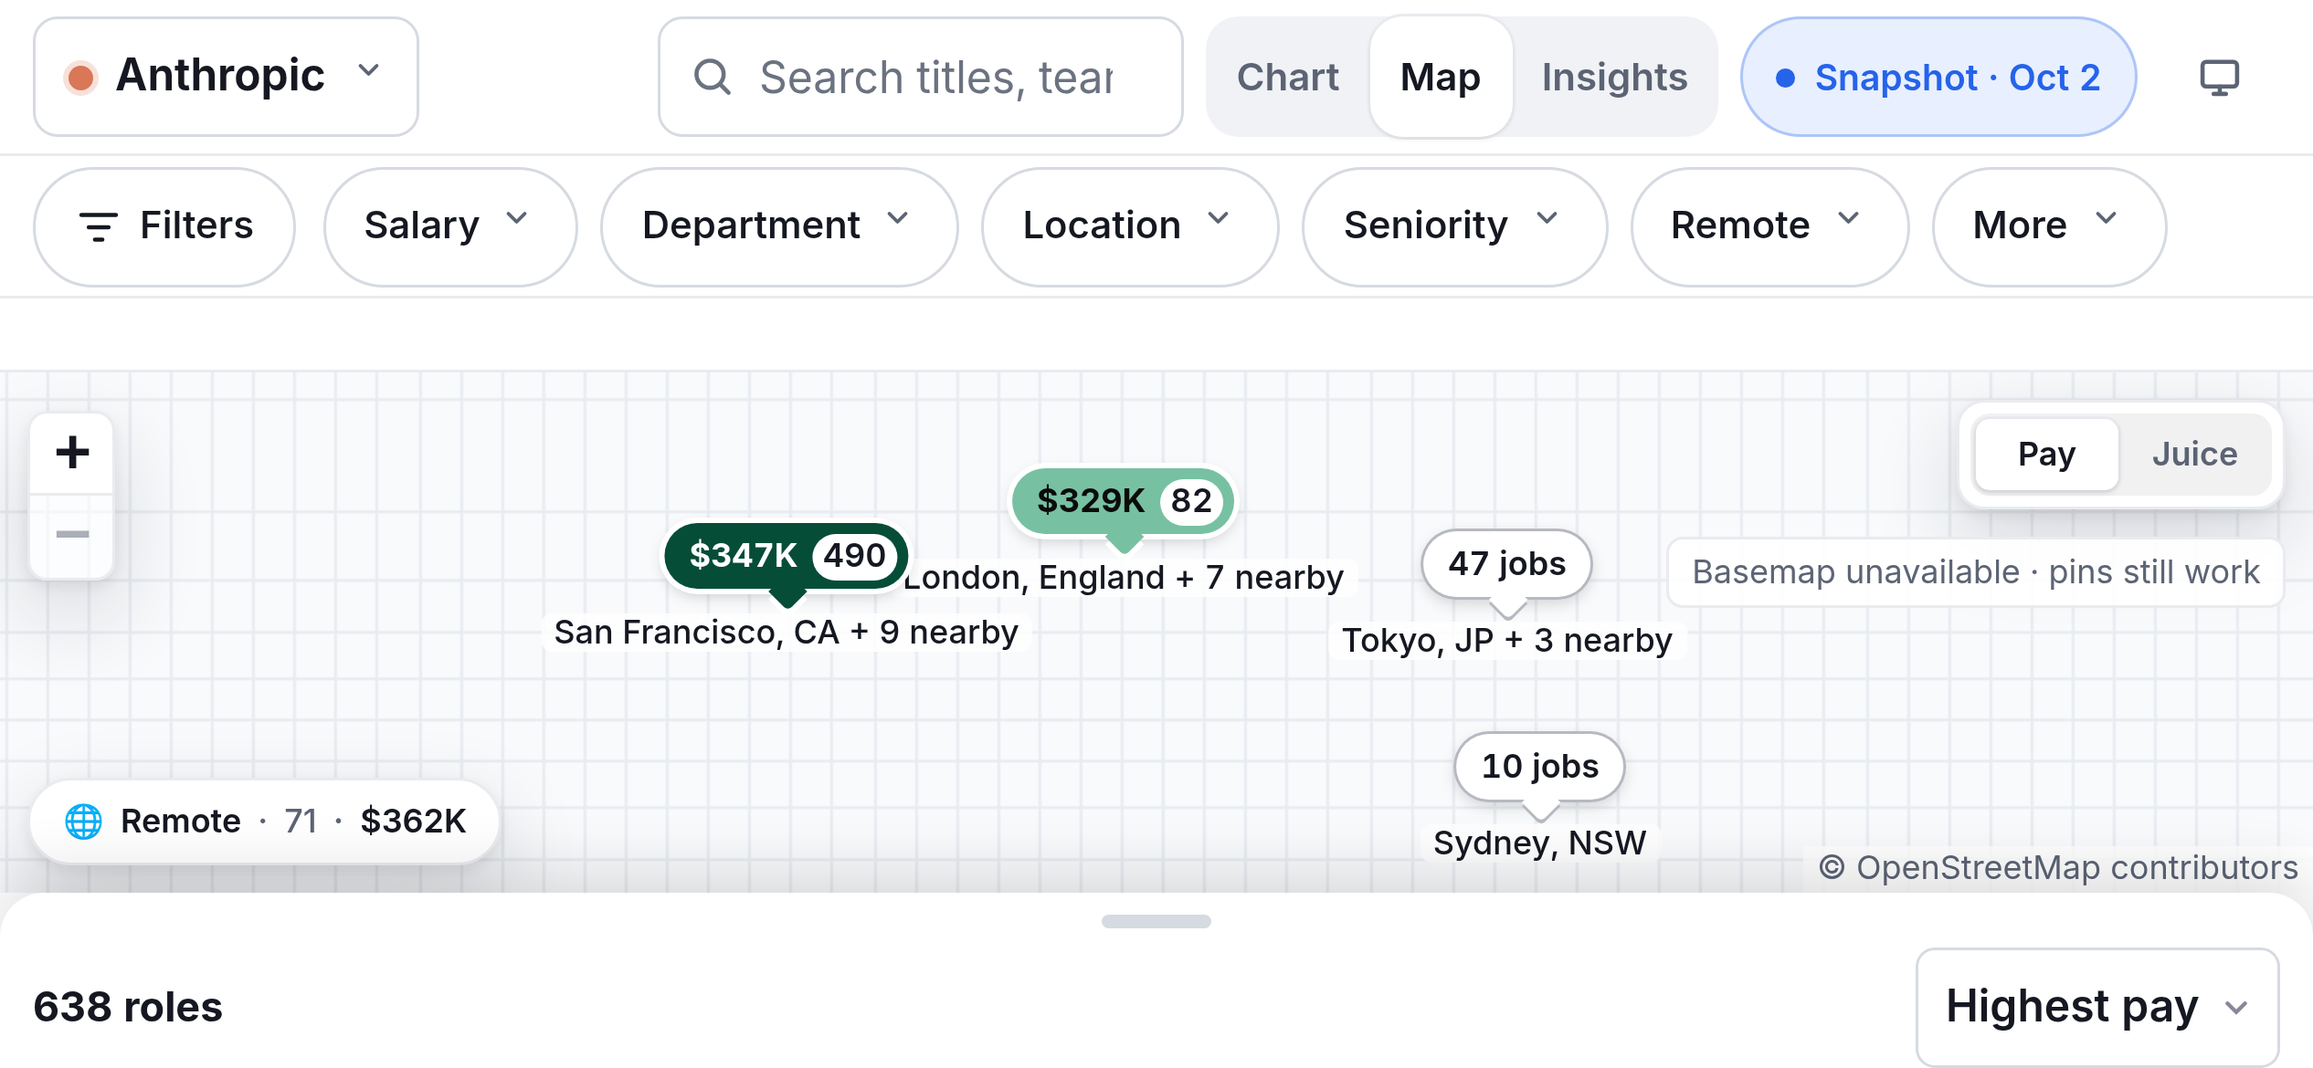
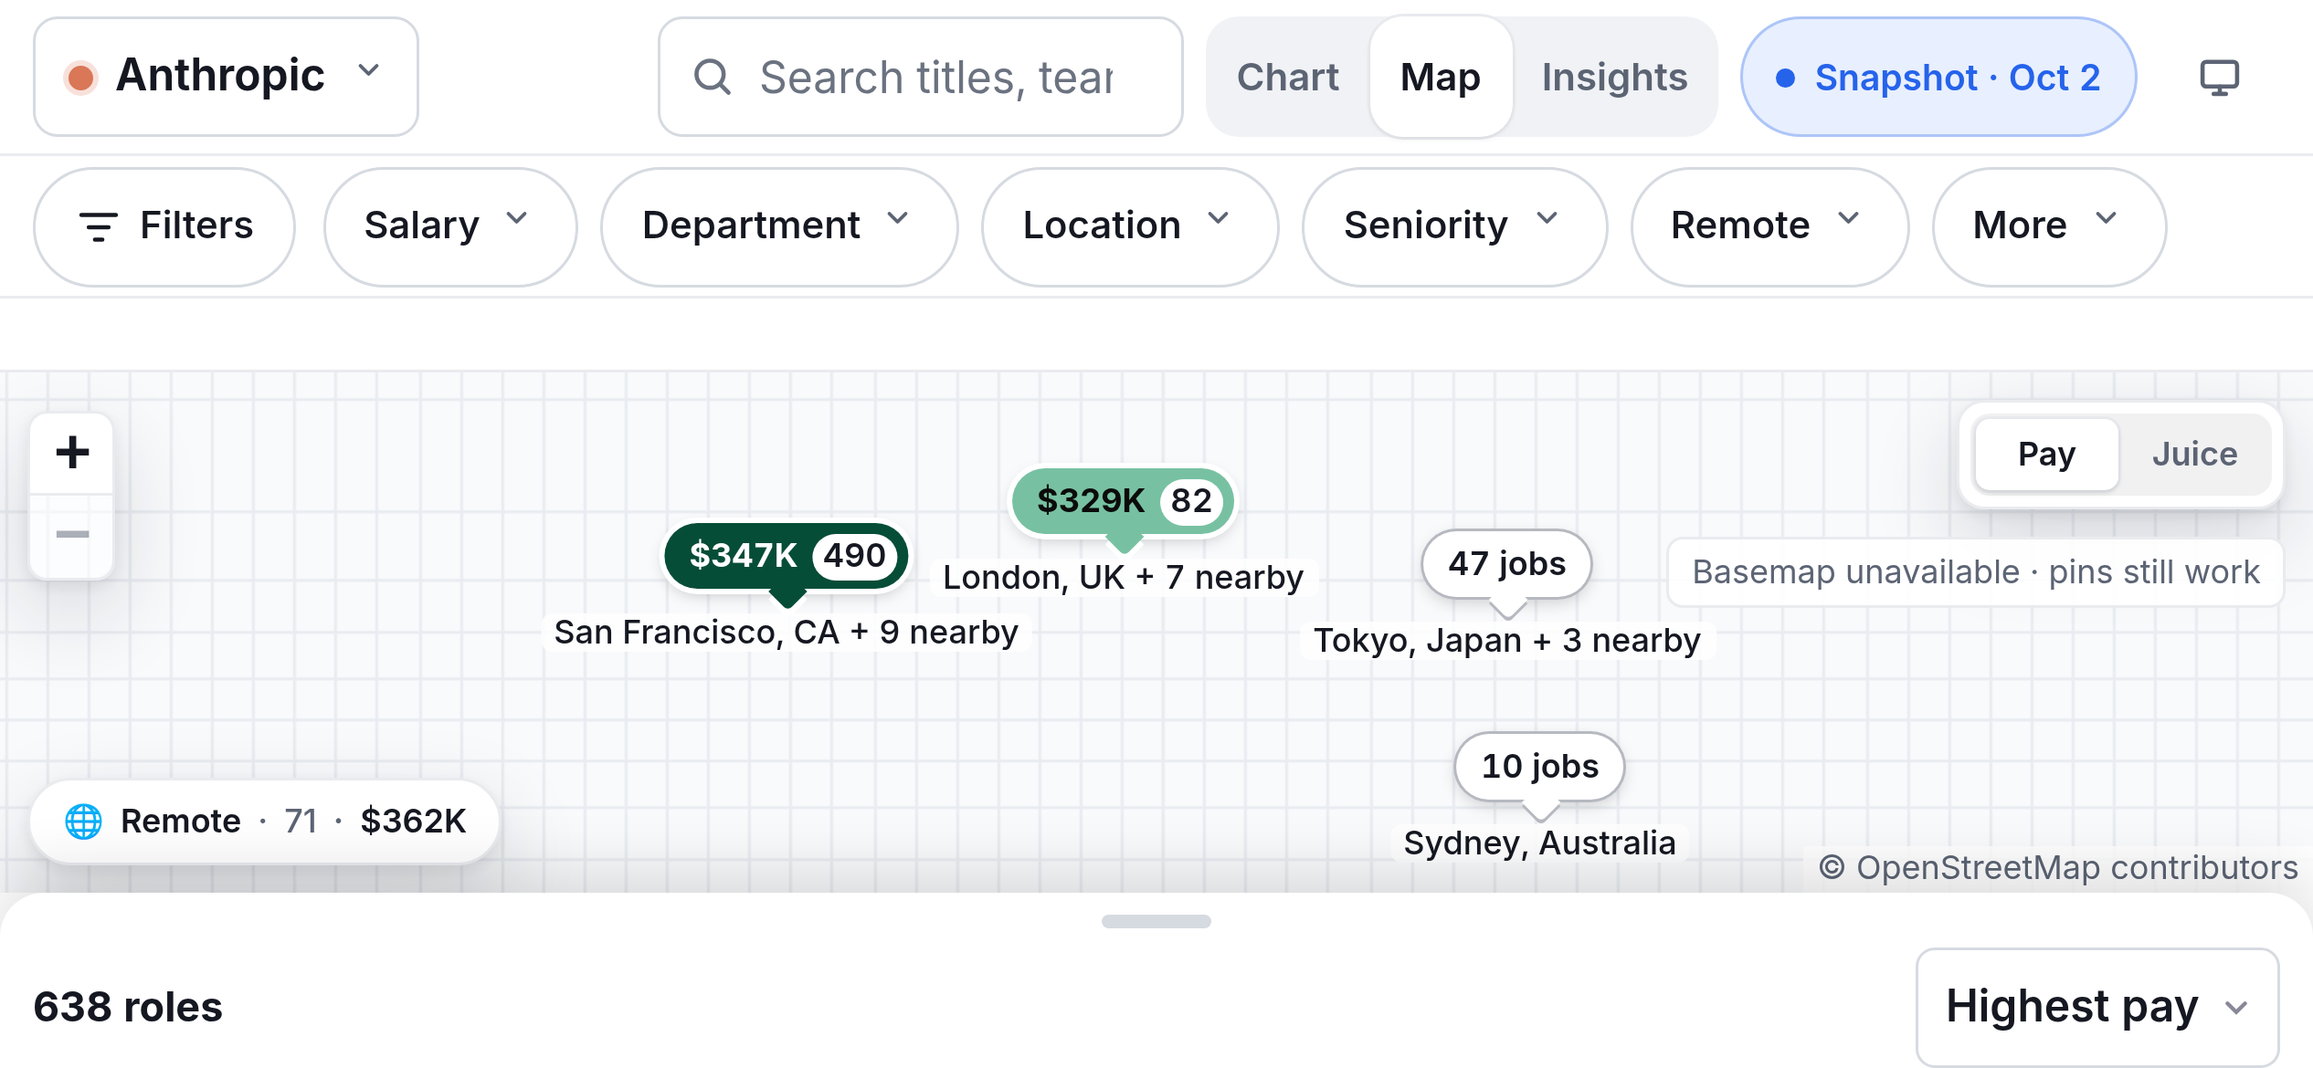
Write out role abbreviations in job titles (RE/RS, SWE, TPM, GTM…) and country codes in location labels
Claude-Session: https://claude.ai/code/session_014jaqot5Ddmi7Co6CofBiyc

Changed region(s): [[0.3744, 0.5231, 0.5928, 0.5538], [0.5616, 0.5846, 0.7488, 0.6154], [0.5928, 0.7692, 0.7176, 0.8]]

diff --git a/public/app.js b/public/app.js
@@ -10,7 +10,7 @@ import * as api from './api.js';
 import { createCompstimateWidget, compstimateForJob, accuracyLine, isLowAccuracy, displayConfidence, basisLine, MIN_COMPARABLES } from './features/compstimate.js';
 import { compsForJob, createCompsCard } from './features/comps.js';
 import { createCompsChart } from './viz/comps.js';
-import { roleFamily, FAMILY_LABELS } from './features/roles.js';
+import { roleFamily, FAMILY_LABELS, readableTitle } from './features/roles.js';
 // ./features/insights.js is imported on first use (Insights mode), see renderInsights.
 // api.js: getCompanies, getJobs, getJobDetail (namespace import: tolerate a missing optional export)
 
@@ -386,13 +386,19 @@ function prepare(jobs, { source = null } = {}) {
     // falls back to updatedAt so the age slot and "Listed" filter still work.
     const tagm = typeof j.title === 'string' ? j.title.match(/^\s*\[([^\]]{1,16})\]\s*/) : null;
     if (tagm && !j._rawTitle) { j._rawTitle = j.title; j._titleTag = tagm[1]; j.title = j.title.slice(tagm[0].length) || j.title; }
+    // Role abbreviations written out ("RE / RS" -> "Research Engineer / Research Scientist"); the
+    // posted title stays searchable and is shown in the drawer when it differs.
+    if (j._postedTitle == null && typeof j.title === 'string') {
+      j._postedTitle = j._rawTitle || j.title;
+      j.title = readableTitle(j.title) || j.title;
+    }
     j._age = 'ageDays' in j ? (Number.isFinite(j.ageDays) ? j.ageDays : null)
       : j._ts ? Math.max(0, Math.floor((Date.now() - j._ts) / 864e5)) : null;
     j._family = j._family ?? roleFamily(j.title, j); // same ctx comps.js uses, so rf filters match its rows
     j.juice = j.juice && j.juice.best ? j.juice : null;
     j._grade = j.juice ? (j.juice.best.grade === 'Rind' ? 'Dry' : j.juice.best.grade) : null;
     j._locKeys = j.locations.map(locKey);
-    j._hay = [j.title, j.department, j.team, j.employmentType, j.seniority,
+    j._hay = [j.title, j._postedTitle !== j.title ? j._postedTitle : null, j.department, j.team, j.employmentType, j.seniority,
       ...j.locations.map((l) => l.name), ...j.keywords.responsibilities, ...j.keywords.fit, ...j.keywords.skills]
       .filter(Boolean).join(' \u0001 ').toLowerCase();
   }
@@ -2253,6 +2259,7 @@ function drawerContent(job) {
     h('div', { class: 'd-company' }, h('span', { class: 'dot', style: `--dot:${companyColor(company)}` }), company.name || job.companyName,
       data.mode === 'demo' ? h('span', { class: 'tag tag--demo' }, 'Demo') : null),
     h('h2', { class: 'd-title', id: 'drawerTitle' }, job.title),
+    job._postedTitle && job._postedTitle.replace(/^\s*\[[^\]]{1,16}\]\s*/, '') !== job.title ? h('div', { class: 'd-posted muted' }, `Posted as “${job._postedTitle}”`) : null,
     h('div', { class: 'd-meta' }, ...[deptKey(job), job.team, job.employmentType].filter(Boolean).map((t, i) => [i ? h('span', { class: 'sep' }, '·') : null, h('span', null, t)]),
       h('span', { class: `sen sen--${(job.seniority || 'mid').toLowerCase().replace(/\W/g, '')}` }, job.seniority || '—'),
       job._titleTag ? h('span', { class: 'tag', title: `The posting's title starts with “[${job._titleTag}]”, a tag the company adds (often a team or office code)` }, `Tag: ${job._titleTag}`) : null),

diff --git a/public/features/roles.js b/public/features/roles.js
@@ -80,6 +80,50 @@ function stem(w) {
 const SEGMENT_SPLIT = /\s*(?:,|;|\s[-–—|:]\s|[-–—]\s|\s[-–—]|\(|\)|\|)\s*/;
 const ROLE_NOUN = /\b(engineer\w*|developer|scientist|researcher|manager|director|lead|head|analyst|designer|architect|specialist|coordinator|associate|executive|counsel|attorney|recruiter|technician|operator|writer|editor|partner|strategist|consultant|administrator|assistant|officer|planner|buyer|inspector|tutor|fellow|intern|vp|chief|representative|advisor|accountant|controller|producer|electrician|supervisor|agent|machinist|fabricator|assembler|scheduler|expert|owner|generalist|principal|member|programmer|worker|cook|drafter)\b/;
 
+// ---------------------------------------------------------------------------
+// Display titles
+// ---------------------------------------------------------------------------
+
+// Role abbreviations companies put in titles ("RE / RS", "SWE", "GTM"), written out for display.
+// Only role words: domain terms (EW, GNC, SOX…) are the company's own and stay as posted.
+const TITLE_ABBR = [
+  [/\bRE\s*\/\s*RS\b/g, 'Research Engineer / Research Scientist'],
+  [/\bRS\s*\/\s*RE\b/g, 'Research Scientist / Research Engineer'],
+  [/\bTPM Manager\b/g, 'Manager, Technical Program Management'],
+  [/\bSW Eng\.?(?=[\s,)]|$)/g, 'Software Engineer'],
+  [/\bSWEs\b/g, 'Software Engineers'],
+  [/\bSWE\b/g, 'Software Engineer'],
+  [/\bTPM\b/g, 'Technical Program Manager'],
+  [/\bMTS\b/g, 'Member of Technical Staff'],
+  [/\bGTM\b/g, 'Go-to-Market'],
+  [/\bBD\b/g, 'Business Development'],
+  [/\bSr\.\s*/g, 'Senior '],
+  [/\bJr\.\s*/g, 'Junior '],
+];
+const initials = (words) => words.split(/[\s-]+/).filter(Boolean).map((w) => w[0]).join('').toUpperCase();
+
+/**
+ * Title for display: role abbreviations written out, and a "(FDE)" that only repeats the words
+ * before it ("Forward Deployed Engineer (FDE)") dropped. The posted title is kept by the caller.
+ * @param {string} title
+ * @returns {string}
+ */
+export function readableTitle(title) {
+  let t = String(title || '');
+  // "Forward Deployed Engineer (FDE)" / "Go-To-Market (GTM)" -> drop the repeat: the
+  // parenthesis spells the initials of words earlier in the title.
+  t = t.replace(/\s*\(([A-Z]{2,5})\)/g, (m, ab, at) => {
+    const ws = t.slice(0, at).split(/[^A-Za-z]+/).filter(Boolean);
+    for (let i = 0; i + ab.length <= ws.length; i++) if (initials(ws.slice(i, i + ab.length).join(' ')) === ab) return '';
+    return m;
+  });
+  const hasMgr = /\bmanager\b/i.test(t);
+  t = t.replace(/\bMLE\b/g, hasMgr ? 'Machine Learning Engineering' : 'Machine Learning Engineer');
+  t = t.replace(/\bFDE\b/g, /\bengineer\b/i.test(t.replace(/\bFDE\b/g, '')) && !hasMgr ? 'Forward Deployed Engineer' : 'Forward Deployed Engineering');
+  for (const [re, to] of TITLE_ABBR) t = t.replace(re, to);
+  return t.replace(/\s{2,}/g, ' ').replace(/\s+([,)])/g, '$1').trim();
+}
+
 /** The title segment that names the role: "Human Data - Business Operations Analyst" -> "Business Operations Analyst". */
 export function rolePart(title) {
   const raw = String(title || '');

diff --git a/test/readable-title.test.js b/test/readable-title.test.js
@@ -1,0 +1,33 @@
+// public/features/roles.js readableTitle: role abbreviations in posted titles are written out
+// for display (user request 2026-10-03: no abbreviations that are not self-explanatory).
+import { test } from 'node:test';
+import assert from 'node:assert/strict';
+import { readableTitle } from '../public/features/roles.js';
+
+const CASES = [
+  ['RE / RS - Foundations, Search', 'Research Engineer / Research Scientist - Foundations, Search'],
+  ['RE/RS, Data Understanding - Foundations', 'Research Engineer / Research Scientist, Data Understanding - Foundations'],
+  ['Full-Stack SWE, Data Acquisition (Foundations)', 'Full-Stack Software Engineer, Data Acquisition (Foundations)'],
+  ['Engineering Manager, MLE', 'Engineering Manager, Machine Learning Engineering'],
+  ['Senior TPM, Mathematical Software & Algorithms', 'Senior Technical Program Manager, Mathematical Software & Algorithms'],
+  ['TPM Manager, Infrastructure', 'Manager, Technical Program Management, Infrastructure'],
+  ['Technical Program Manager (TPM) - Defense', 'Technical Program Manager - Defense'],
+  ['Forward Deployed Engineer, Air Defense (FDE)', 'Forward Deployed Engineer, Air Defense'],
+  ['Strategy & Operations, FDE', 'Strategy & Operations, Forward Deployed Engineering'],
+  ['Recruiter, Go-To-Market (GTM)', 'Recruiter, Go-To-Market'],
+  ['AWS GTM Partnership Lead, Enterprise', 'AWS Go-to-Market Partnership Lead, Enterprise'],
+  ['Sr. Staff BD Account Executive - Autonomy Specialist, Japan (R5096)', 'Senior Staff Business Development Account Executive - Autonomy Specialist, Japan (R5096)'],
+  ['Multinational Digital Infrastructure - Full Stack SW Eng. (US)', 'Multinational Digital Infrastructure - Full Stack Software Engineer (US)'],
+  // Left alone: plain titles, country/location parentheses, domain terms that are the company's own.
+  ['Senior Software Engineer (US)', 'Senior Software Engineer (US)'],
+  ['Antenna RF Engineer, EW', 'Antenna RF Engineer, EW'],
+  ['Research Engineer, RL Engineering', 'Research Engineer, RL Engineering'],
+];
+
+test('readableTitle writes out role abbreviations and drops repeated initials', () => {
+  for (const [posted, want] of CASES) assert.equal(readableTitle(posted), want, posted);
+});
+
+test('readableTitle is idempotent', () => {
+  for (const [posted] of CASES) assert.equal(readableTitle(readableTitle(posted)), readableTitle(posted), posted);
+});

diff --git a/public/features/insights.js b/public/features/insights.js
@@ -20,6 +20,13 @@ export { percentile, median, salaryUSD, toUSD } from './shared.js';
 // Pure stats
 // ---------------------------------------------------------------------------
 
+/** "GB" -> "UK", "KR" -> "South Korea": a name, not a bare country code. */
+let regionNames = null;
+function countryName(code) {
+  if (code === 'US' || code === 'GB') return code === 'GB' ? 'UK' : 'US';
+  try { regionNames ??= new Intl.DisplayNames(['en'], { type: 'region' }); return regionNames.of(code) || code; } catch { return code; }
+}
+
 function midOf(job) { const p = salaryUSD(job); return p ? p.mid : null; }
 
 function kw(job, facet) {
@@ -274,9 +281,9 @@ export function createInsights(container, { onFilter, headingLevel = 2 } = {}) {
     const max = Math.max(...locs.map((l) => l.count));
     const head = h('div', { class: 'msi-cols', 'aria-hidden': 'true' }, h('span', null, 'Location'), h('span'), h('span', null, 'Roles'), h('span', null, 'Median'));
     const rows = locs.map((l) => row('location', l.location,
-      `${l.location}${l.country && !l.remote ? `, ${l.country}` : ''}: ${plural(l.count, 'role')}, median pay ${l.median == null ? 'not published' : formatMoney(l.median)}. Filter by this location.`,
+      `${l.location}${l.country && !l.remote ? `, ${countryName(l.country)}` : ''}: ${plural(l.count, 'role')}, median pay ${l.median == null ? 'not published' : formatMoney(l.median)}. Filter by this location.`,
       [
-        h('span', { class: 'msi-row__label' }, h('span', { class: 'msi-row__name' }, l.location), l.country && !l.remote ? h('span', { class: 'msi-row__tag' }, l.country) : null),
+        h('span', { class: 'msi-row__label' }, h('span', { class: 'msi-row__name' }, l.location), l.country && !l.remote ? h('span', { class: 'msi-row__tag' }, countryName(l.country)) : null),
         h('span', { class: 'msi-bar', 'aria-hidden': 'true' }, h('span', { class: 'msi-bar__fill', style: { width: `${(l.count / max) * 100}%` } })),
         h('span', { class: 'msi-row__value msi-row__value--count' }, String(l.count)),
         h('span', { class: 'msi-row__value' }, l.median == null ? '—' : formatMoney(l.median)),

diff --git a/test/e2e/desktop-qa.e2e.js b/test/e2e/desktop-qa.e2e.js
@@ -7,6 +7,7 @@ import http from 'node:http';
 import fs from 'node:fs';
 import path from 'node:path';
 import { ROOT, assert, assertEq, skip } from './harness.js';
+import { readableTitle } from '../../public/features/roles.js';
 
 const DESKTOP = { width: 1440, height: 900 };
 const sleep = (ms) => new Promise((r) => setTimeout(r, ms));
@@ -117,11 +118,13 @@ export function registerDesktopQaTests(suite) {
     for (const q of ['engineer', 'safety', 'sales manager']) {
       await page.fill('#search', q); await sleep(700);
       const toks = q.split(/\s+/);
-      const strong = (await cardIds(page)).map((id) => { const j = jobs.get(id); return toks.every((t) => `${j.title} ${j.team || ''}`.toLowerCase().includes(t)); });
+      // The app matches the displayed title (role abbreviations written out: "SWE" -> "Software Engineer").
+      const inTitle = (j) => toks.every((t) => `${readableTitle(j.title)} ${j.team || ''}`.toLowerCase().includes(t));
+      const strong = (await cardIds(page)).map((id) => inTitle(jobs.get(id)));
       const firstWeak = strong.indexOf(false);
       assert(firstWeak === -1 || strong.lastIndexOf(true) < firstWeak, `"${q}": a keyword-only match ranks above a title match`);
       const shown = Number(((await page.locator('#resultsTitle').innerText()).match(/·\s*([\d,]+) in title/) || [])[1]?.replace(/,/g, ''));
-      const exp = [...jobs.values()].filter((j) => toks.every((t) => `${j.title} ${j.team || ''}`.toLowerCase().includes(t))).length;
+      const exp = [...jobs.values()].filter(inTitle).length;
       assertEq(shown, exp, `"${q}": "· N in title"`);
     }
   });

diff --git a/test/geo.test.js b/test/geo.test.js
@@ -124,8 +124,8 @@ test('UX-3: canonical display names collapse variants; rawName keeps the source 
   // remote variants
   for (const r of ['Remote-Friendly US (Travel Required)', 'Remote-Friendly, United States', 'US - Remote', 'Remote (US)', 'Remote, USA']) assert.equal(name(r), 'Remote (US)', r);
   for (const r of ['Remote-Friendly (Travel-Required)', 'Remote-Friendly (Travel Required)', 'Remote', 'Anywhere']) assert.equal(name(r), 'Remote', r);
-  assert.equal(name('Ontario - Remote'), 'Remote (CA)');
-  assert.equal(name('Remote-Friendly, Australia'), 'Remote (AU)');
+  assert.equal(name('Ontario - Remote'), 'Remote (Canada)');
+  assert.equal(name('Remote-Friendly, Australia'), 'Remote (Australia)');
   // region / prefecture / format duplicates collapse to one city name
   assert.equal(name('Tokyo Prefecture'), 'Tokyo, Japan');
   assert.equal(name('Tokyo'), 'Tokyo, Japan');

diff --git a/server/geo.js b/server/geo.js
@@ -741,13 +741,13 @@ function regionLabel(region, country) {
 
 /**
  * Canonical display name (UX-3) so one place is one filter entry:
- * remote -> "Remote" / "Remote (US)"; city -> "San Francisco, CA" (US) or
+ * remote -> "Remote" / "Remote (US)" / "Remote (Canada)"; city -> "San Francisco, CA" (US) or
  * "Tokyo, Japan" / "London, UK"; region only -> "Ontario, Canada";
  * country only -> "Germany"; unknown -> the raw string, trimmed.
  */
 export function canonicalName(loc) {
   if (!loc) return '';
-  if (loc.remote) return loc.country ? `Remote (${loc.country})` : 'Remote';
+  if (loc.remote) return loc.country ? `Remote (${countryLabel(loc.country)})` : 'Remote'; // "Remote (Canada)", not the ambiguous "(CA)"
   if (loc.city && loc.country) {
     if (loc.country === 'US') return loc.region ? `${loc.city}, ${loc.region}` : loc.city;
     const cl = countryLabel(loc.country);

diff --git a/public/styles.css b/public/styles.css
@@ -536,7 +536,7 @@ html[data-mode="map"] .demo-banner > code { order: 0; flex: 0 1 auto; margin-lef
 .d-title { margin: 6px 0 6px; font-size: 23px; line-height: 1.22; letter-spacing: -.02em; }
 .d-meta { display: flex; flex-wrap: wrap; align-items: center; gap: 6px; color: var(--ms-muted); font-size: 13.5px; }
 .d-meta .sen { margin-left: 4px; }
-.d-updated { font-size: 12.5px; margin-top: 4px; }
+.d-updated, .d-posted { font-size: 12.5px; margin-top: 4px; }
 .d-salary { margin: 18px 0 6px; padding: 16px; border-radius: 12px; background: var(--ms-surface-2); border: 1px solid var(--ms-border); }
 .d-sal-top { display: flex; align-items: flex-start; justify-content: space-between; gap: 12px; }
 .d-sal-amt { font-size: 26px; font-weight: 750; letter-spacing: -.02em; font-variant-numeric: tabular-nums; }

diff --git a/server/normalize.js b/server/normalize.js
@@ -14,9 +14,10 @@ import { vetSalaries, salaryChecks } from './vet.js';
  * snapshots with an older version (server/pipeline.js), once per file.
  * History: norm-2 = BUG-5 boilerplate-aware keywords; norm-3 = UX-3 canonical
  * location names (geo.js rawName); norm-4 = features §6a lexicon fixes
- * (14 noisy patterns, near-duplicate chips dropped or renamed).
+ * (14 noisy patterns, near-duplicate chips dropped or renamed); norm-5 = remote
+ * locations name the country ("Remote (Canada)", not "Remote (CA)").
  */
-export const NORMALIZER_VERSION = 'norm-4';
+export const NORMALIZER_VERSION = 'norm-5';
 
 const NO_EXTRAS = Object.freeze({ equity: false, bonus: false });
 

diff --git a/public/viz/map.js b/public/viz/map.js
@@ -53,6 +53,8 @@ function midUSD(job) {
 }
 
 function locLabel(l) {
+  // Outside the US the canonical name already spells the country ("Tokyo, Japan", "Sydney, Australia").
+  if (l.city && l.country && l.country !== 'US' && l.name && !l.remote) return l.name;
   if (l.city) return l.region && l.region !== l.city ? `${l.city}, ${l.region}` : (l.country && l.country !== l.city ? `${l.city}, ${l.country}` : l.city);
   return l.name || 'Unknown';
 }

diff --git a/docs/process/lead.md b/docs/process/lead.md
@@ -569,3 +569,19 @@ screenshots in `docs/screenshots/`.
   - `@font-face` is in `public/styles.css`, so the methodology page shares it. `public/og/card.html` uses the local file, and `scripts/build-og.mjs` no longer routes Google Fonts.
   - Google Fonts was removed from the CSP (`style-src`, `font-src 'self'`) and from `scripts/links-policy.js` ALLOWED_HOSTS. Tests in `test/server.test.js` and `test/links-policy.test.js` now fail if it comes back.
 - Final: `npm test` 304/304, `node scripts/e2e.js` 86/86.
+
+### User request: no unexplained abbreviations ("RS/RE"), 2026-10-03
+- **Source.** "RE / RS" is OpenAI's own posted title ("RE / RS - Foundations, Search", "RE/RS, Data Understanding (MM)"), copied as posted. A scan of every visible string in both modes also found the site's own unexplained codes:
+  - "Remote (CA)", which could mean Canada or California;
+  - bare country codes in the Insights location tags ("GB", "KR", "IE");
+  - map labels "Singapore, SG", "Tokyo, JP", "Sydney, NSW".
+- **Display titles.** `public/features/roles.js` `readableTitle()` writes out role abbreviations:
+  - RE/RS, SWE, SW Eng., MLE, TPM, MTS, GTM, FDE, BD, Sr./Jr.;
+  - and drops a parenthesis that repeats earlier initials ("Forward Deployed Engineer (FDE)").
+
+  Domain terms that belong to the company (EW, GNC, SOX, RL…) stay as posted. `app.js` `prepare()` keeps `_postedTitle`; search matches both forms, and the drawer shows "Posted as …" when the title differs. Tests: `test/readable-title.test.js`.
+- **Locations.**
+  - `server/geo.js` `canonicalName`: "Remote (Canada)" / "Remote (Australia)". US stays "US" and GB stays "UK". `NORMALIZER_VERSION` is now norm-5, so snapshots are relocated on load, and the golden hashes were re-baselined.
+  - `viz/map.js` uses the canonical name outside the US ("Tokyo, Japan").
+  - `features/insights.js` shows country names via `Intl.DisplayNames`.
+- **Results.** `npm test` 306/306 and `node scripts/e2e.js` 86/86. The desktop QA search test now compares against the displayed titles. A browser re-scan of server and static modes found no RE/RS, SWE, TPM, GTM, MLE or FDE, and no bare country codes.
